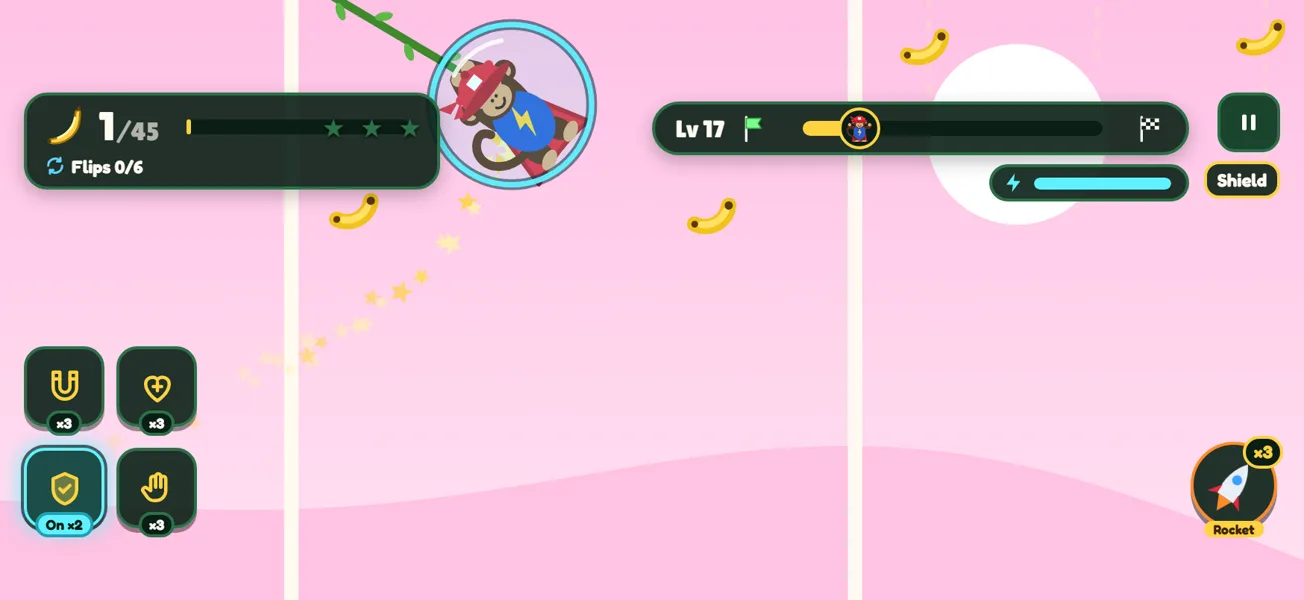
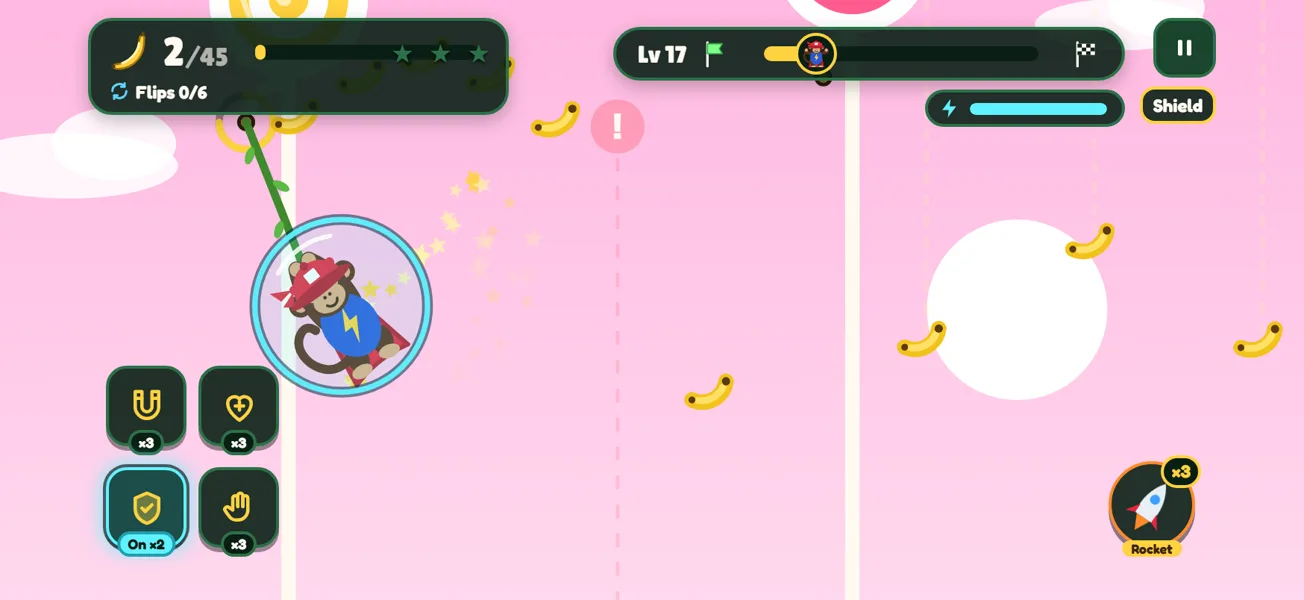
Landscape iPhone picture with the real safe areas
The game's buttons now sit clear of the Dynamic Island and the panels sit
at the top, as on an iPhone held sideways.

diff --git a/ru/index.html b/ru/index.html
@@ -116,7 +116,7 @@ if(c==='yes')load();})();</script>
       </div>
 
       <div class="feature reveal">
-        <div class="phone-wrap"><div class="phone land tilt-l"><img src="/img/02-play-land.webp" alt="Качайся и лети" loading="lazy" width="1304" height="600"></div></div>
+        <div class="phone-wrap"><div class="phone land tilt-l"><img src="/img/02-play-land.webp?v=2" alt="Качайся и лети" loading="lazy" width="1304" height="600"></div></div>
         <div>
           <span class="tag">Держи и отпускай</span>
           <h3>Идеальный взмах <em>каждый раз</em></h3>

diff --git a/nl/index.html b/nl/index.html
@@ -115,7 +115,7 @@ if(c==='yes')load();})();</script>
       </div>
 
       <div class="feature reveal">
-        <div class="phone-wrap"><div class="phone land tilt-l"><img src="/img/02-play-land.webp" alt="Slingeren &amp; vliegen" loading="lazy" width="1304" height="600"></div></div>
+        <div class="phone-wrap"><div class="phone land tilt-l"><img src="/img/02-play-land.webp?v=2" alt="Slingeren &amp; vliegen" loading="lazy" width="1304" height="600"></div></div>
         <div>
           <span class="tag">Vasthouden &amp; loslaten</span>
           <h3>De perfecte slinger, <em>elke keer</em></h3>

diff --git a/de/index.html b/de/index.html
@@ -115,7 +115,7 @@ if(c==='yes')load();})();</script>
       </div>
 
       <div class="feature reveal">
-        <div class="phone-wrap"><div class="phone land tilt-l"><img src="/img/02-play-land.webp" alt="Schwingen &amp; fliegen" loading="lazy" width="1304" height="600"></div></div>
+        <div class="phone-wrap"><div class="phone land tilt-l"><img src="/img/02-play-land.webp?v=2" alt="Schwingen &amp; fliegen" loading="lazy" width="1304" height="600"></div></div>
         <div>
           <span class="tag">Halten &amp; loslassen</span>
           <h3>Der perfekte Schwung, <em>jedes Mal</em></h3>

diff --git a/fr/index.html b/fr/index.html
@@ -115,7 +115,7 @@ if(c==='yes')load();})();</script>
       </div>
 
       <div class="feature reveal">
-        <div class="phone-wrap"><div class="phone land tilt-l"><img src="/img/02-play-land.webp" alt="Balance-toi et vole" loading="lazy" width="1304" height="600"></div></div>
+        <div class="phone-wrap"><div class="phone land tilt-l"><img src="/img/02-play-land.webp?v=2" alt="Balance-toi et vole" loading="lazy" width="1304" height="600"></div></div>
         <div>
           <span class="tag">Maintiens et lâche</span>
           <h3>Le balancement parfait, <em>à chaque fois</em></h3>

diff --git a/ja/index.html b/ja/index.html
@@ -116,7 +116,7 @@ if(c==='yes')load();})();</script>
       </div>
 
       <div class="feature reveal">
-        <div class="phone-wrap"><div class="phone land tilt-l"><img src="/img/02-play-land.webp" alt="揺れて飛ぶ" loading="lazy" width="1304" height="600"></div></div>
+        <div class="phone-wrap"><div class="phone land tilt-l"><img src="/img/02-play-land.webp?v=2" alt="揺れて飛ぶ" loading="lazy" width="1304" height="600"></div></div>
         <div>
           <span class="tag">長押しして離す</span>
           <h3>完ぺきなスイングを<em>いつでも</em></h3>

diff --git a/pl/index.html b/pl/index.html
@@ -115,7 +115,7 @@ if(c==='yes')load();})();</script>
       </div>
 
       <div class="feature reveal">
-        <div class="phone-wrap"><div class="phone land tilt-l"><img src="/img/02-play-land.webp" alt="Bujaj się i leć" loading="lazy" width="1304" height="600"></div></div>
+        <div class="phone-wrap"><div class="phone land tilt-l"><img src="/img/02-play-land.webp?v=2" alt="Bujaj się i leć" loading="lazy" width="1304" height="600"></div></div>
         <div>
           <span class="tag">Trzymaj i puść</span>
           <h3>Idealne bujnięcie, <em>za każdym razem</em></h3>

diff --git a/es/index.html b/es/index.html
@@ -115,7 +115,7 @@ if(c==='yes')load();})();</script>
       </div>
 
       <div class="feature reveal">
-        <div class="phone-wrap"><div class="phone land tilt-l"><img src="/img/02-play-land.webp" alt="Balancéate y vuela" loading="lazy" width="1304" height="600"></div></div>
+        <div class="phone-wrap"><div class="phone land tilt-l"><img src="/img/02-play-land.webp?v=2" alt="Balancéate y vuela" loading="lazy" width="1304" height="600"></div></div>
         <div>
           <span class="tag">Mantén y suelta</span>
           <h3>El balanceo perfecto, <em>siempre</em></h3>

diff --git a/id/index.html b/id/index.html
@@ -115,7 +115,7 @@ if(c==='yes')load();})();</script>
       </div>
 
       <div class="feature reveal">
-        <div class="phone-wrap"><div class="phone land tilt-l"><img src="/img/02-play-land.webp" alt="Ayun &amp; terbang" loading="lazy" width="1304" height="600"></div></div>
+        <div class="phone-wrap"><div class="phone land tilt-l"><img src="/img/02-play-land.webp?v=2" alt="Ayun &amp; terbang" loading="lazy" width="1304" height="600"></div></div>
         <div>
           <span class="tag">Tahan &amp; lepas</span>
           <h3>Ayunan sempurna, <em>setiap saat</em></h3>

diff --git a/ko/index.html b/ko/index.html
@@ -116,7 +116,7 @@ if(c==='yes')load();})();</script>
       </div>
 
       <div class="feature reveal">
-        <div class="phone-wrap"><div class="phone land tilt-l"><img src="/img/02-play-land.webp" alt="스윙하고 날기" loading="lazy" width="1304" height="600"></div></div>
+        <div class="phone-wrap"><div class="phone land tilt-l"><img src="/img/02-play-land.webp?v=2" alt="스윙하고 날기" loading="lazy" width="1304" height="600"></div></div>
         <div>
           <span class="tag">누르고 놓기</span>
           <h3>완벽한 스윙을 <em>매번</em></h3>

diff --git a/sv/index.html b/sv/index.html
@@ -115,7 +115,7 @@ if(c==='yes')load();})();</script>
       </div>
 
       <div class="feature reveal">
-        <div class="phone-wrap"><div class="phone land tilt-l"><img src="/img/02-play-land.webp" alt="Svinga och flyg" loading="lazy" width="1304" height="600"></div></div>
+        <div class="phone-wrap"><div class="phone land tilt-l"><img src="/img/02-play-land.webp?v=2" alt="Svinga och flyg" loading="lazy" width="1304" height="600"></div></div>
         <div>
           <span class="tag">Håll och släpp</span>
           <h3>Den perfekta svingen, <em>varje gång</em></h3>

diff --git a/it/index.html b/it/index.html
@@ -115,7 +115,7 @@ if(c==='yes')load();})();</script>
       </div>
 
       <div class="feature reveal">
-        <div class="phone-wrap"><div class="phone land tilt-l"><img src="/img/02-play-land.webp" alt="Dondola e vola" loading="lazy" width="1304" height="600"></div></div>
+        <div class="phone-wrap"><div class="phone land tilt-l"><img src="/img/02-play-land.webp?v=2" alt="Dondola e vola" loading="lazy" width="1304" height="600"></div></div>
         <div>
           <span class="tag">Tieni e lascia</span>
           <h3>L'oscillazione perfetta, <em>ogni volta</em></h3>

diff --git a/index.html b/index.html
@@ -115,7 +115,7 @@ if(c==='yes')load();})();</script>
       </div>
 
       <div class="feature reveal">
-        <div class="phone-wrap"><div class="phone land tilt-l"><img src="/img/02-play-land.webp" alt="Swing &amp; fly" loading="lazy" width="1304" height="600"></div></div>
+        <div class="phone-wrap"><div class="phone land tilt-l"><img src="/img/02-play-land.webp?v=2" alt="Swing &amp; fly" loading="lazy" width="1304" height="600"></div></div>
         <div>
           <span class="tag">Hold &amp; let go</span>
           <h3>The perfect swing, <em>every time</em></h3>
